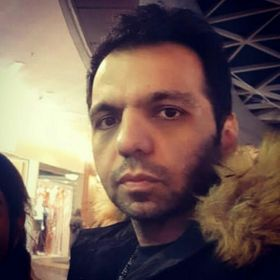
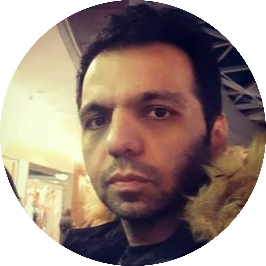
update-photos

diff --git a/_pages/people.md b/_pages/people.md
@@ -2,13 +2,21 @@
 layout: profiles
 permalink: /people/
 title: People
-description: members of the lab or group
+description: members of the lab
 nav: true
 nav_order: 3
 
 profiles:
   # if you want to include more than one profile, just replicate the following block
   # and create one content file for each profile inside _pages/
+
+
+  - align: left
+    image: 
+    content: people-current-line.md
+    image_circular: false # crops the image to make it circular
+    more_info: 
+
   - align: left
     image: Fritz_vienna.png
     content: people-fritz.md
@@ -16,22 +24,19 @@ profiles:
     more_info: 
 
   - align: left
-    image: medhat_200px.png
-    content: people-medhat.md
-    image_circular: false # crops the image to make it circular
-    more_info: 
-
-  - align: left
-    image: DanielAgustinho.jpeg
+    image: DanielAgustinho.png
     content: people-daniel.md
     image_circular: false # crops the image to make it circular
     more_info: 
 
+
   - align: left
-    image: sairam.jpg
+    image: sairam.png
     content: people-sairam.md
     image_circular: false # crops the image to make it circular
     more_info: 
+
+
 
   - align: left
     image: luis.png
@@ -39,17 +44,6 @@ profiles:
     image_circular: false # crops the image to make it circular
     more_info: 
 
-  - align: left
-    image: moritz.png
-    content: people-moritz.md
-    image_circular: false # crops the image to make it circular
-    more_info: 
-
-  - align: left
-    image: damaris.jpg
-    content: people-damaris.md
-    image_circular: false # crops the image to make it circular
-    more_info: 
 
   - align: left
     image: philippe.png
@@ -57,20 +51,15 @@ profiles:
     image_circular: false # crops the image to make it circular
     more_info: 
 
-  - align: left
-    image: sina.jpg
-    content: people-sina.md
-    image_circular: false # crops the image to make it circular
-    more_info: 
 
   - align: left
-    image: mike.jpg
+    image: mike.png
     content: people-mike.md
     image_circular: false # crops the image to make it circular
     more_info: 
   
   - align: left
-    image: xinchang.jpg
+    image: xinchang.png
     content: people-xinchang.md
     image_circular: false # crops the image to make it circular
     more_info: 
@@ -82,8 +71,44 @@ profiles:
     more_info: 
 
   - align: left
-    image: yilei.jpg
+    image: yilei.png
     content: people-yilei.md
     image_circular: false # crops the image to make it circular
     more_info: 
+
+  - align: left
+    image: 
+    content: people-alumini-line.md
+    image_circular: false # crops the image to make it circular
+    more_info: 
+
+
+  - align: left
+    image: medhat_200px.png
+    content: people-medhat.md
+    image_circular: false # crops the image to make it circular
+    more_info: 
+
+
+
+
+  - align: left
+    image: moritz.png
+    content: people-moritz.md
+    image_circular: false # crops the image to make it circular
+    more_info: 
+
+  - align: left
+    image: damaris.png
+    content: people-damaris.md
+    image_circular: false # crops the image to make it circular
+    more_info: 
+
+
+  - align: left
+    image: sina.png
+    content: people-sina.md
+    image_circular: false # crops the image to make it circular
+    more_info: 
+
 ---

diff --git a/_pages/people-current-line.md b/_pages/people-current-line.md
@@ -1,0 +1,2 @@
+
+## Current

diff --git a/_pages/people-alumini-line.md b/_pages/people-alumini-line.md
@@ -1,0 +1,2 @@
+
+## Alumni
